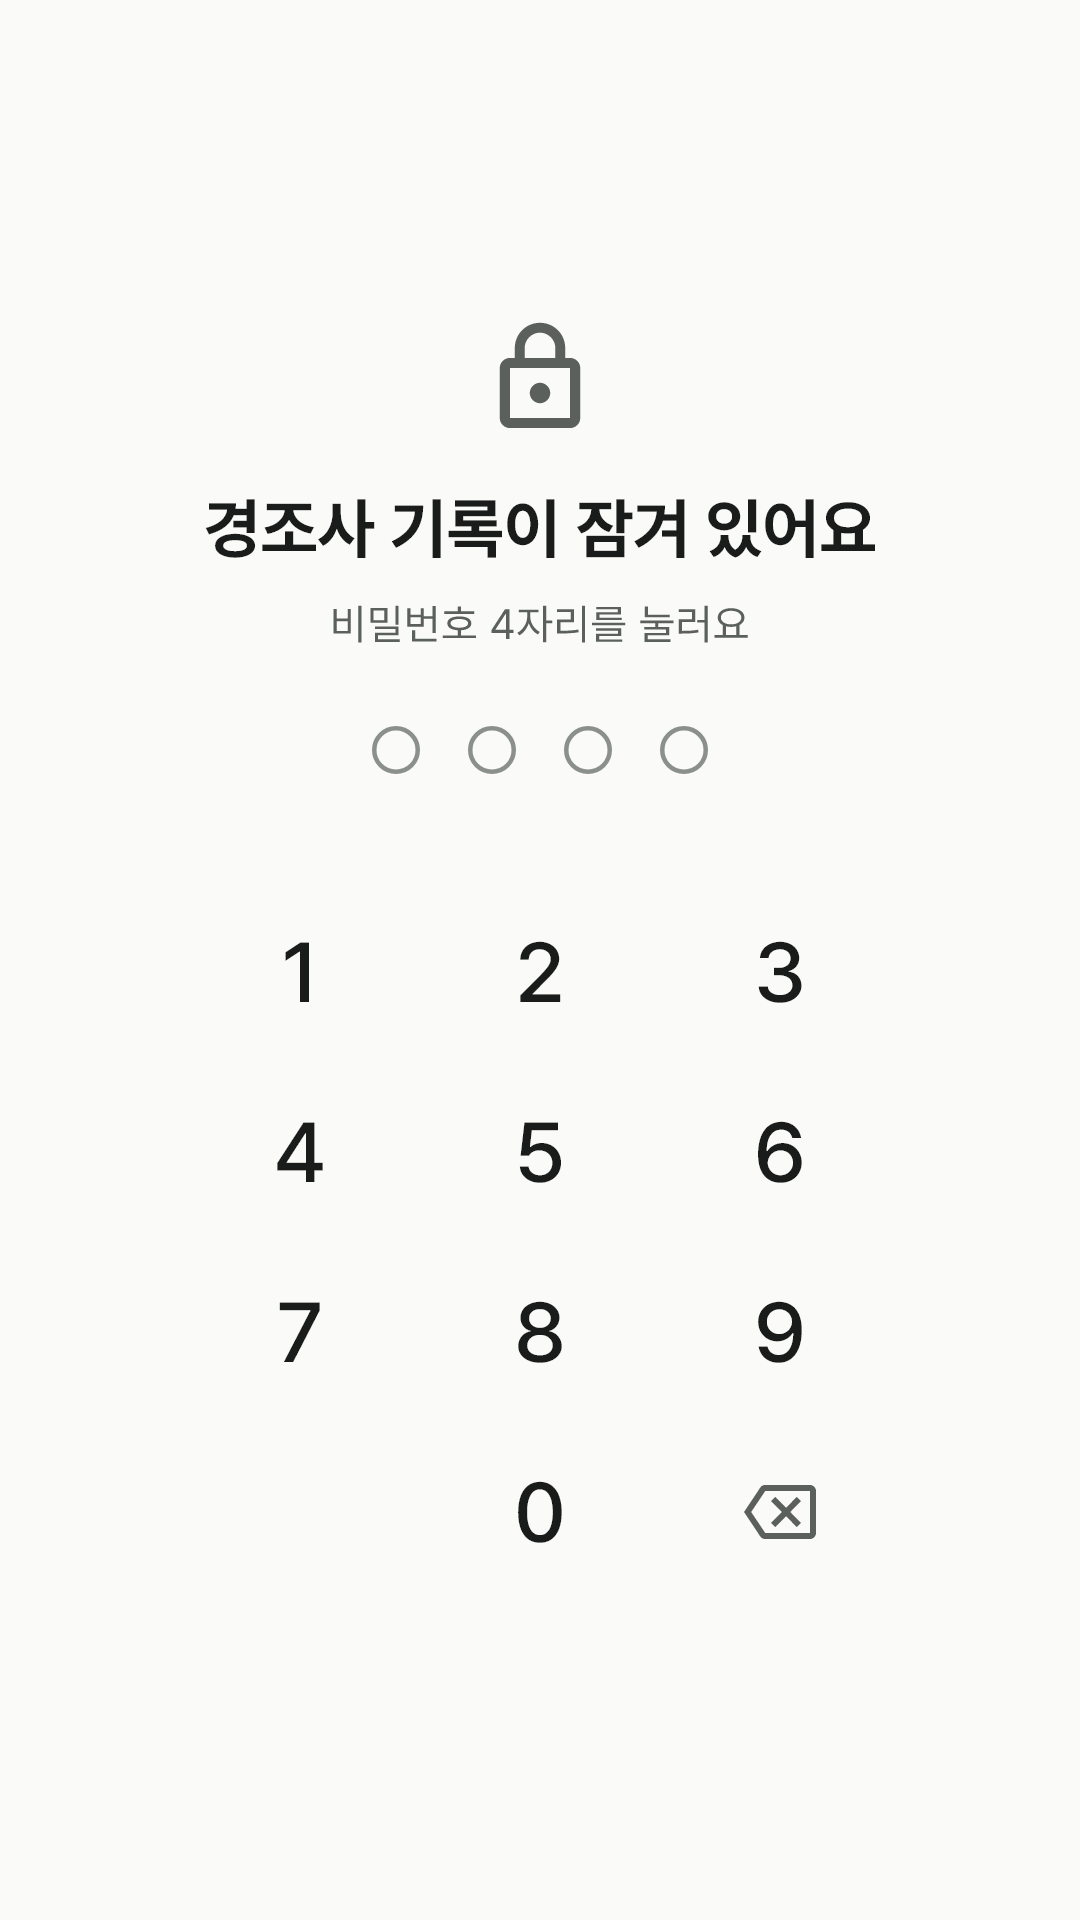
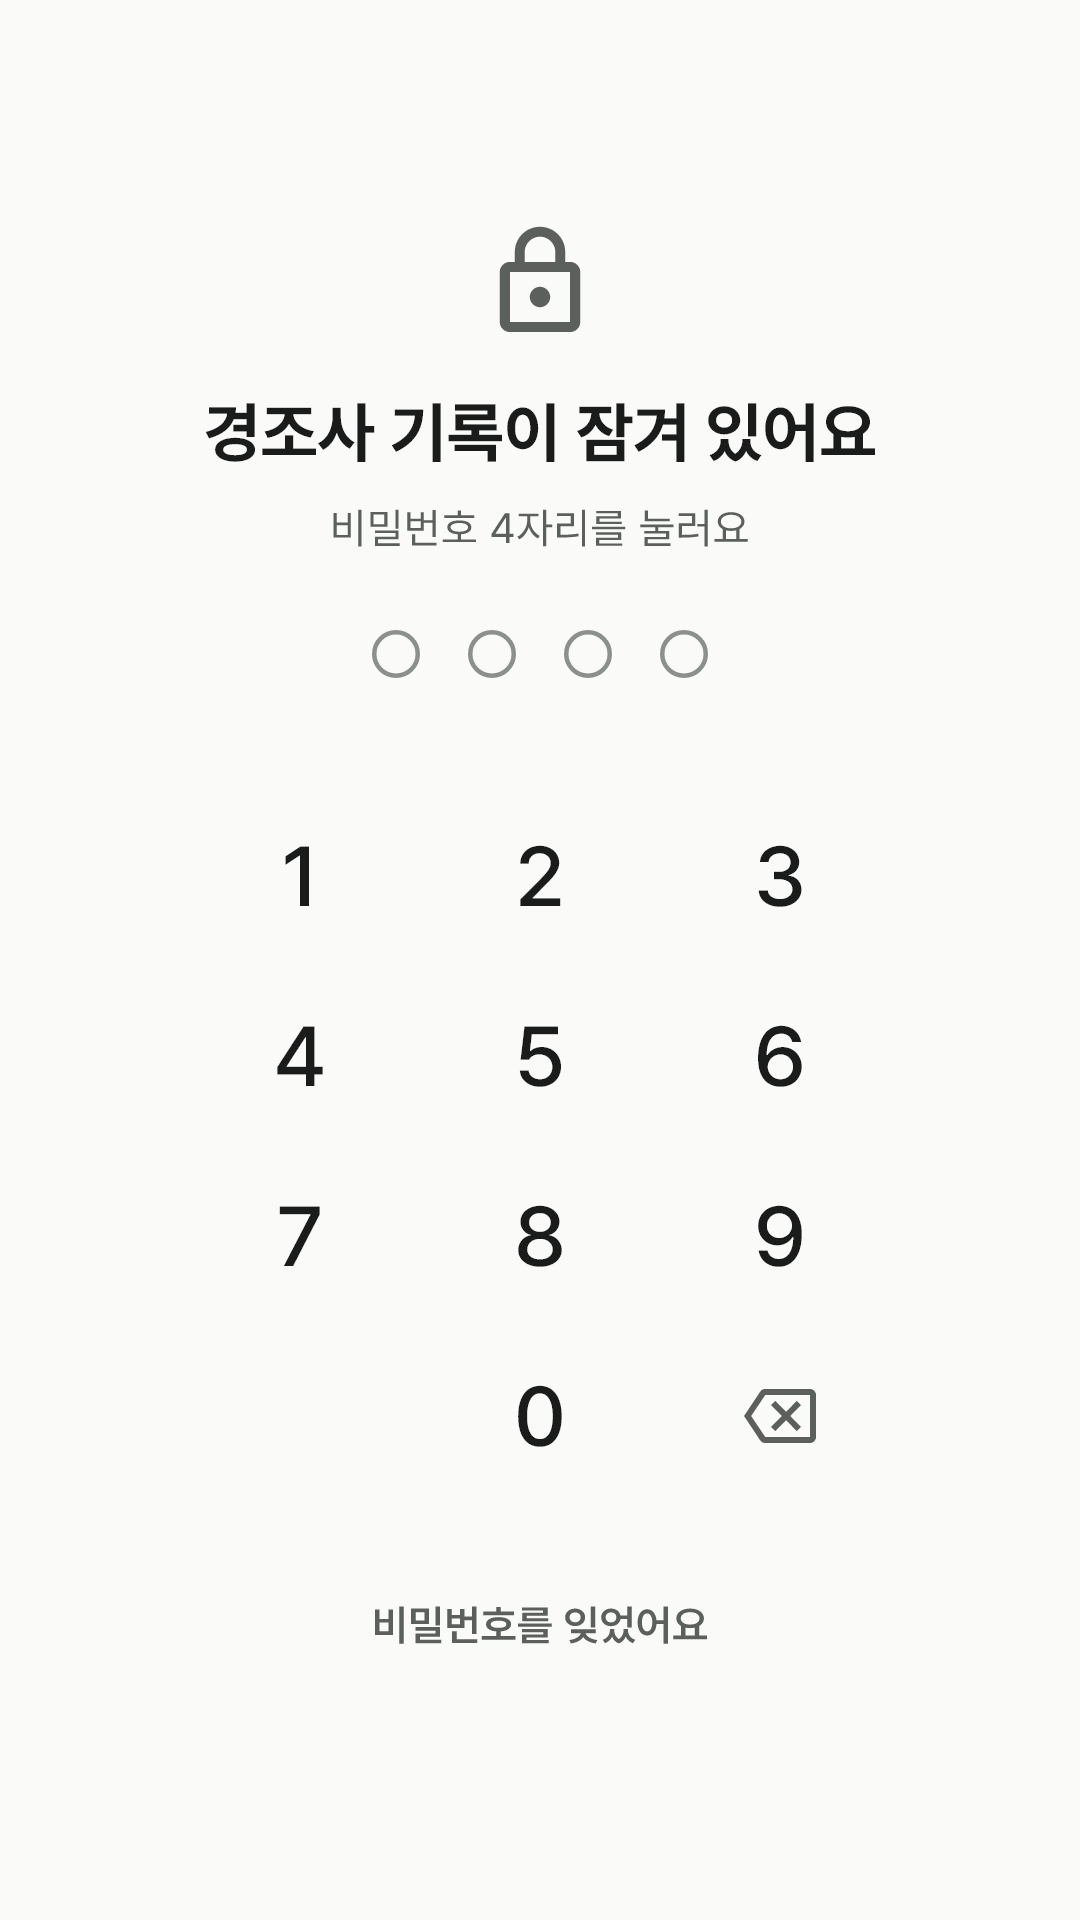
경조사: 개인정보처리방침(공유·복원·삭제·화면 캡처 차단)과 스크린샷 4장 갱신

diff --git a/event_money/privacy.html b/event_money/privacy.html
@@ -3,7 +3,7 @@
 <style>body{font:16px/1.8 system-ui,sans-serif;max-width:720px;margin:auto;padding:40px 24px;color:#20312b;background:#fafaf8}h1{font-size:28px}h2{font-size:20px;margin-top:32px}a{color:#00796b}</style></head><body>
 <h1>앱이소 경조사 개인정보처리방침</h1><p>시행일: 2026년 9월 12일</p>
 <h2>1. 기기에 저장하는 정보</h2><p>사용자가 입력한 상대 이름, 관계, 경조사 종류와 날짜, 행사 이름, 금액, 메모, 화면 설정, 그리고 잠금 설정(비밀번호의 해시값과 지문 사용 여부)을 앱 전용 저장소에 보관합니다. 비밀번호 원문은 저장하지 않습니다. 개발자 서버가 없으며 입력한 내용을 개발자에게 전송하지 않습니다. 가입, 광고, 결제, 분석·크래시 수집 SDK를 사용하지 않습니다.</p>
-<h2>2. 인터넷과 권한</h2><p>이 앱은 인터넷 통신을 하지 않으며 네트워크 권한을 요청하지 않습니다. 지문·얼굴 인식(생체 인증) 권한은 사용자가 옵션에서 "지문으로 열기"를 켤 때만 기기의 인증 화면을 띄우는 데 쓰이며, 생체 정보 자체는 앱이 읽거나 저장하지 않고 안드로이드가 결과(성공·실패)만 알려 줍니다. 알림, 연락처, 위치, 사진, 마이크를 비롯한 다른 기기 권한은 요청하지 않습니다. 소개 페이지, 온라인 개인정보처리방침, 문의 메일은 사용자가 누를 때 기기의 브라우저 또는 메일 앱을 열어 보여 줄 뿐입니다.</p>
-<h2>3. 백업과 삭제</h2><p>기록과 잠금 설정은 사용자 본인의 구글 계정 안드로이드 자동 백업에 포함될 수 있습니다. 백업은 안드로이드 플랫폼이 사용자 계정으로 수행하는 기능이며 개발자가 그 데이터를 받지 않습니다. 앱 안에서 기록을 지우면 즉시 삭제되고, 앱을 제거하거나 앱 데이터를 삭제하면 기록도 사라질 수 있습니다.</p>
+<h2>2. 인터넷과 권한</h2><p>이 앱은 인터넷 통신을 하지 않으며 네트워크 권한을 요청하지 않습니다. 옵션의 내보내기·공유는 사용자가 누를 때 기기의 공유 창을 열어 사용자가 고른 앱(메시지, 메일, 드라이브 등)에 파일이나 글을 넘기는 것이며, 백업 복원은 사용자가 고른 파일을 읽을 뿐입니다. 어느 경우에도 개발자에게 전송되지 않고, 저장소 접근 권한을 따로 요청하지 않습니다. 지문·얼굴 인식(생체 인증) 권한은 사용자가 옵션에서 "지문으로 열기"를 켤 때만 기기의 인증 화면을 띄우는 데 쓰이며, 생체 정보 자체는 앱이 읽거나 저장하지 않고 안드로이드가 결과(성공·실패)만 알려 줍니다. 알림, 연락처, 위치, 사진, 마이크를 비롯한 다른 기기 권한은 요청하지 않습니다. 소개 페이지, 온라인 개인정보처리방침, 문의 메일은 사용자가 누를 때 기기의 브라우저 또는 메일 앱을 열어 보여 줄 뿐입니다.</p>
+<h2>3. 백업과 삭제</h2><p>기록과 잠금 설정은 사용자 본인의 구글 계정 안드로이드 자동 백업에 포함될 수 있습니다. 사용자가 직접 내보낸 백업 파일에는 잠금 설정이 담기지 않습니다. 앱 화면은 스크린샷·화면 녹화가 차단되어 다른 앱이 화면 내용을 가져가지 못합니다. 백업은 안드로이드 플랫폼이 사용자 계정으로 수행하는 기능이며 개발자가 그 데이터를 받지 않습니다. 앱 안에서 기록을 지우면(개별 삭제, 옵션의 "기록 모두 지우기", 잠금 화면의 "비밀번호를 잊었어요") 즉시 삭제되고, 앱을 제거하거나 앱 데이터를 삭제하면 기록도 사라질 수 있습니다.</p>
 <h2>4. 외부 링크와 앱</h2><p>소개 페이지·온라인 개인정보처리방침은 브라우저를, 문의 메일은 메일 앱을 사용자가 누를 때 엽니다. 외부 서비스에는 해당 서비스의 정책이 적용됩니다.</p>
 <h2>5. 문의</h2><p><a href="mailto:appisoLabs@gmail.com">appisoLabs@gmail.com</a></p></body></html>
